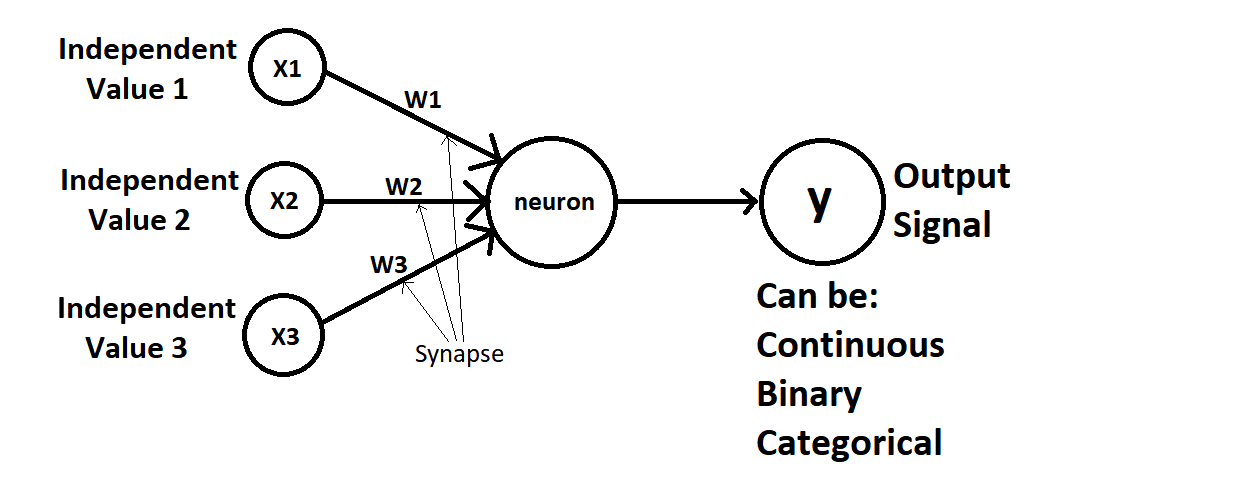
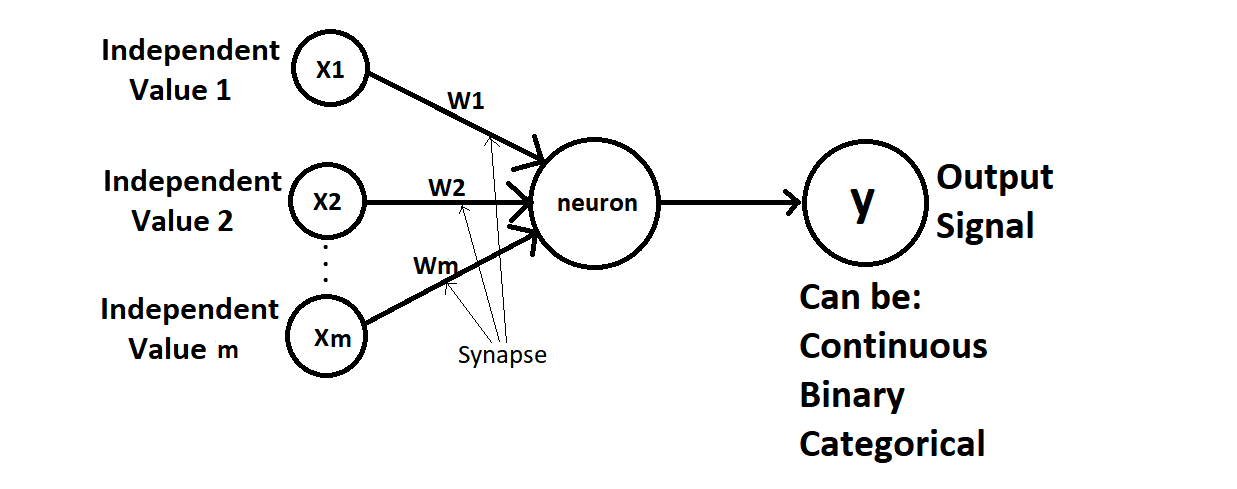
basic

diff --git a/README.md b/README.md
@@ -11,13 +11,16 @@
 # Image of a perceptron
 ![](images/perceptron.PNG)
 
-### Aperceptron is a single neuron neural network.
+### A perceptron is a single neuron neural network.
 
 # Image of a neural network
 
 ![](images/neural_network.png)
 
 ##### Here the input layer contains 3 units, 1st hidden layer contains 4 units, 2nd hidden layer contains 4 units and the output layer contains 1 unit. This is a 3 layer network because we don't count input layer as a layer.
+
+## What happens inside a neuron?
+![](images/basic.PNG)
 
 ##### Weight matrix
 
